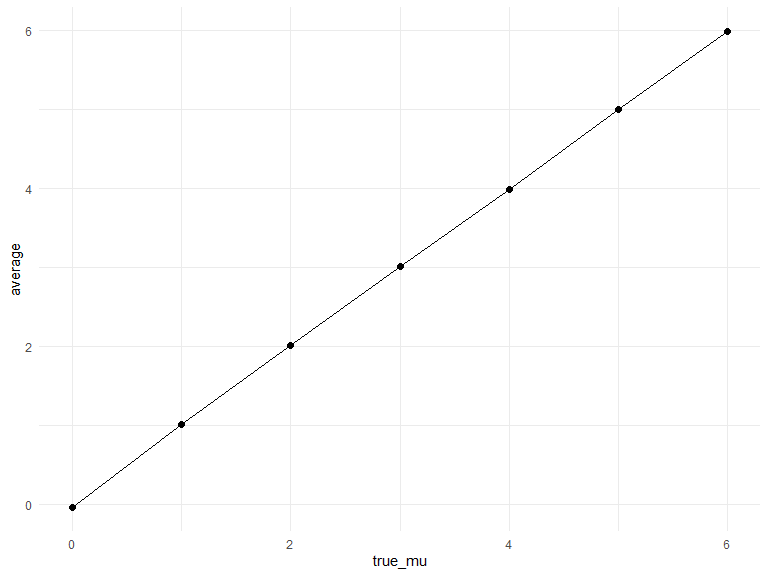
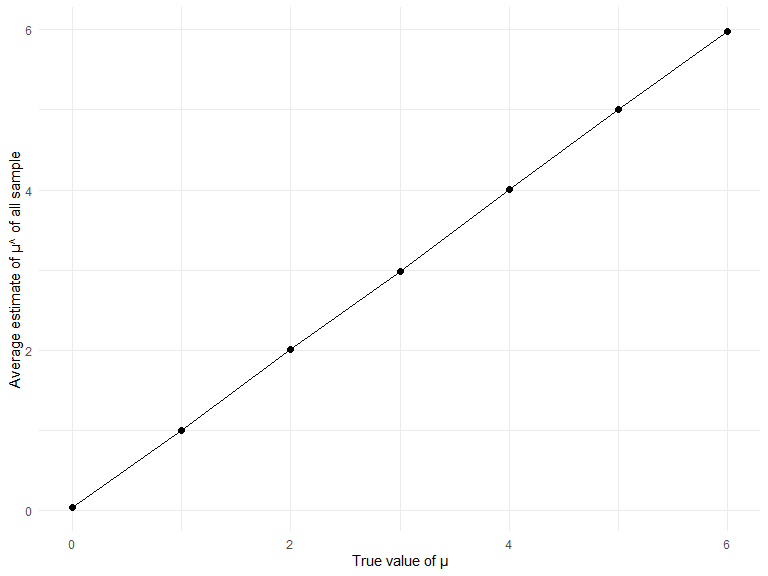
Made some edits. HW 5 Submission - uni: wm2460

diff --git a/p8105_hw5_wm2460.md b/p8105_hw5_wm2460.md
@@ -186,6 +186,8 @@ all_cities_plot
 #### Set up the simulation
 
 ``` r
+# Start with a function that generate t-test results with fixed n and sigma
+
 sim_1 = function(n = 30, mu = 0, sigma = 5) {
      x = rnorm(n, mean = mu, sd = sigma)
      t_test = t.test(x, conf.int = 0.95) %>% broom::tidy()
@@ -193,9 +195,9 @@ sim_1 = function(n = 30, mu = 0, sigma = 5) {
      t_test
 }
 
-p3_df = vector("list", 1000)
+p3_df = vector("list", 5000)
 
-for (i in 1:1000) {
+for (i in 1:5000) {
   p3_df[[i]] = sim_1()
 }
 
@@ -205,23 +207,25 @@ p3_df %>%
 ```
 
     ## # A tibble: 6 × 8
-    ##   estimate statistic  p.value parameter conf.low conf.high method        alter…¹
-    ##      <dbl>     <dbl>    <dbl>     <dbl>    <dbl>     <dbl> <chr>         <chr>  
-    ## 1  -0.201    -0.204  0.840           29    -2.22     1.82  One Sample t… two.si…
-    ## 2  -0.977    -1.02   0.318           29    -2.94     0.989 One Sample t… two.si…
-    ## 3  -0.581    -0.616  0.543           29    -2.51     1.35  One Sample t… two.si…
-    ## 4   0.300     0.365  0.718           29    -1.38     1.98  One Sample t… two.si…
-    ## 5   0.0209    0.0256 0.980           29    -1.65     1.69  One Sample t… two.si…
-    ## 6   2.39      3.67   0.000980        29     1.06     3.72  One Sample t… two.si…
+    ##   estimate statistic p.value parameter conf.low conf.high method         alter…¹
+    ##      <dbl>     <dbl>   <dbl>     <dbl>    <dbl>     <dbl> <chr>          <chr>  
+    ## 1   -0.518    -0.559   0.580        29    -2.41     1.38  One Sample t-… two.si…
+    ## 2    0.417     0.367   0.716        29    -1.91     2.74  One Sample t-… two.si…
+    ## 3   -1.25     -1.54    0.135        29    -2.91     0.411 One Sample t-… two.si…
+    ## 4   -0.880    -0.947   0.352        29    -2.78     1.02  One Sample t-… two.si…
+    ## 5   -1.28     -1.49    0.146        29    -3.03     0.471 One Sample t-… two.si…
+    ## 6   -1.24     -1.39    0.174        29    -3.06     0.580 One Sample t-… two.si…
     ## # … with abbreviated variable name ¹alternative
 
 #### Simulation for different mu
 
 ``` r
+# A second function to apply for-loop and calculate power
+
 sim_2 = function(set){
   
-  p3_df = vector("list", 1000)
-  for (i in 1:1000) {
+  p3_df = vector("list", 5000)
+  for (i in 1:5000) {
      p3_df[[i]] = sim_1(mu = set)
   }
   
@@ -241,7 +245,7 @@ test_power =
   tibble(mus = c(0, 1, 2, 3, 4, 5, 6),
          reject_time = map(mus, sim_2)) %>%  
   unnest(reject_time) %>% 
-  mutate(power = n/1000)
+  mutate(power = n/5000)
 ```
 
 #### A plot between the power of the test and the true value of μ
@@ -266,13 +270,15 @@ true value of μ) increase, power increases.
 #### A plot showing the average estimate of μ^ and the true value of μ
 
 ``` r
+# A third function to apply t-test and learn about when null was rejected
+
 sim_3 = function(n = 30, mu = 0, sigma = 5) {
      sim_data = tibble(x = rnorm(n, mean = mu, sd = sigma),)
      
      sim_t_test = t.test(pull(sim_data,x), conf.int = 0.95) %>% 
               broom::tidy() %>% 
               janitor::clean_names() %>% 
-              select( p_value)
+              select(p_value)
      
      sim_data %>% 
      summarize(mu_hat_all = mean(x),
@@ -281,9 +287,11 @@ sim_3 = function(n = 30, mu = 0, sigma = 5) {
                  pull(sim_t_test, p_value) >= 0.05 ~ as.numeric("")))
 }
 
+# A forth function that apply sim_3 to the list and to summarize
+
 sim_4 = function(set){
-  mu_hat = vector("list", 1000)
-  for (i in 1:1000) {
+  mu_hat = vector("list", 5000)
+  for (i in 1:5000) {
      mu_hat[[i]] = sim_3(mu = set)
      }
   
@@ -305,7 +313,9 @@ all_plot = average_muhat %>%
   filter(samples == "all") %>% 
   ggplot(aes(x = true_mu, y = average)) +
   geom_point(size = 2) +
-  geom_line()
+  geom_line() +
+  labs(x = "True value of μ",
+       y = "Average estimate of μ^ of all sample")
 
 all_plot
 ```
@@ -317,7 +327,9 @@ reject_plot = average_muhat %>%
   filter(samples == "reject") %>% 
   ggplot(aes(x = true_mu, y = average)) +
   geom_point(size = 2) +
-  geom_line()
+  geom_line() +
+  labs(x = "True value of μ",
+       y = "Average estimate of μ^ of rejected null sample")
 
 reject_plot
 ```
@@ -328,15 +340,20 @@ reject_plot
 together_plot = average_muhat %>% 
   ggplot(aes(x = true_mu, y = average, group = samples)) +
   geom_point(aes(color = samples), size = 2) +
-  geom_line(alpha = 0.5)
+  geom_line(alpha = 0.5) +
+  labs(x = "True value of μ",
+       y = "Average estimate of μ^",
+       title = "Comparing average estimate of μ^ by all sample and rejected null sample")
 
 together_plot
 ```
 
 <img src="p8105_hw5_wm2460_files/figure-gfm/average_plot-3.png" width="90%" />
 
-When the true mu is less than 4, the sample average of μ^ across tests
-for which the null is rejected is not approximately equal to the true
-value of μ. However, if the true mu is 4, 5, or 6, the sample average of
-μ^ across tests for which the null is rejected is approximately equal to
-the true value of μ.
+When the true μ is less than 4 and larger than 0, the sample average of
+μ^ across tests for which the null is rejected is not approximately
+equal to the true value of μ. However, if the true μ is 4, 5, or 6, the
+sample average of μ^ across tests for which the null is rejected is
+approximately equal to the true value of μ.
+
+## End of HW5
